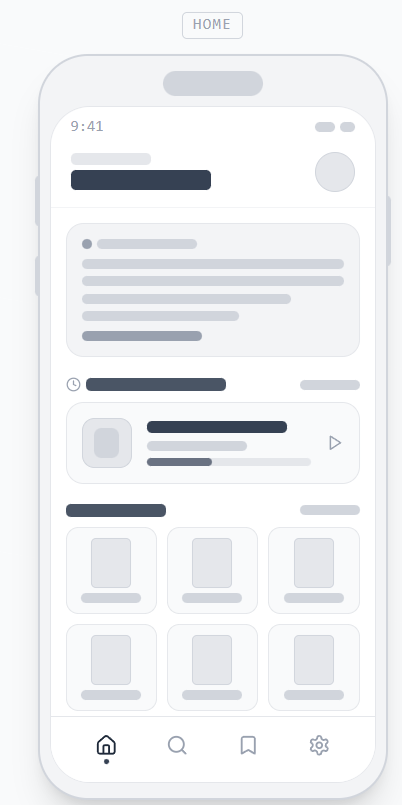
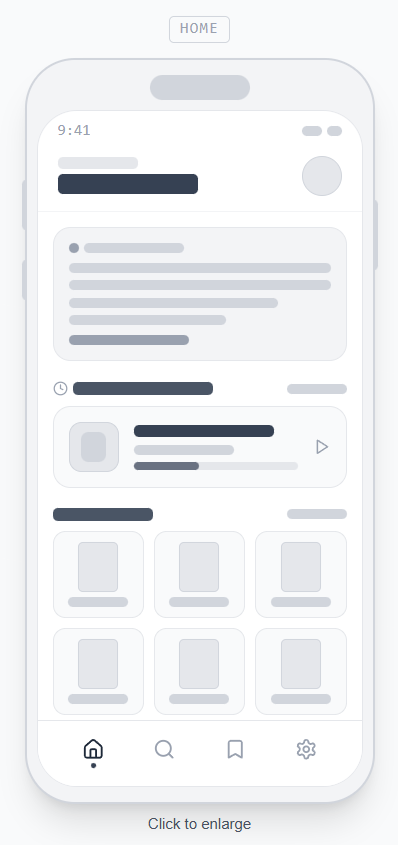
Added home wireframe and screen specification

diff --git a/SCR-001_Home_Screen.md b/SCR-001_Home_Screen.md
@@ -1,0 +1,61 @@
+# SCR-001 — Home Screen
+
+---
+
+## Screen Info
+
+| Field | Details |
+|---|---|
+| **Screen ID** | SCR-001 |
+| **Screen Name** | Home Screen |
+| **Route** | `/home` |
+| **Accessed From** | Bottom Navigation — Home Tab (all screens) |
+| **Description** | Main landing screen. Shows daily verse, continue reading widget, and quick-access book grid. |
+
+---
+
+## Screen Annotations
+
+1. **Status Bar** — Displays time (9:41) and signal/battery indicators. Placeholder only, not interactive.
+2. **Greeting Header** — Displays a time-based greeting text on the left and the app logo on the top-right corner. Decorative only.
+3. **Daily Verse Card** — Large prominent card showing an auto-loaded verse of the day. Includes verse text and reference label.
+4. **Continue Reading Widget** — Displays the last read book title and chapter with a play/resume button to continue reading from last position.
+5. **Quick Access Book Grid** — A 2-row grid of recently visited or popular Bible books displayed as thumbnail cards.
+6. **Bottom Navigation Bar** — Persistent 5-tab navigation bar fixed at the bottom. Tabs: Home (active), Search, Books, Bookmarks, Settings.
+
+---
+
+## Component Legend
+
+| ID | Type | Label | Function |
+|---|---|---|---|
+| HDR-01 | Header | Greeting Text | Displays time-based greeting to the user (e.g. Good Morning) |
+| LGO-01 | Logo | App Logo | Circular app logo on the top-right of the Home Screen. Decorative only, not interactive. |
+| CRD-01 | Card | Daily Verse Card | Displays the auto-loaded verse of the day with verse reference |
+| TXT-01 | Text | Verse Text | Main verse content text inside the daily verse card |
+| TXT-02 | Text | Verse Reference | Shows book name, chapter, and verse number (e.g. John 3:16) |
+| WGT-01 | Widget | Continue Reading | Shows last read book and chapter with a resume action button |
+| BTN-01 | Button | Resume / Play Button | Tapping resumes reading from the last saved position |
+| GRD-01 | List | Quick Access Book Grid | 2-row grid layout showing popular or recently visited books |
+| ICN-01 | Icon | Book Thumbnail | Square image or placeholder icon for each book in the grid |
+| NAV-01 | Nav Item | Home | Bottom nav — navigates to SCR-001 (currently active) |
+| NAV-02 | Nav Item | Search | Bottom nav — navigates to SCR-002 Search Screen |
+| NAV-03 | Nav Item | Books | Bottom nav — navigates to SCR-003 Books Screen |
+| NAV-04 | Nav Item | Bookmarks | Bottom nav — navigates to SCR-005 Bookmarks Screen |
+| NAV-05 | Nav Item | Settings | Bottom nav — navigates to SCR-006 Settings Screen |
+
+---
+
+## Navigation From This Screen
+
+| Destination | Trigger |
+|---|---|
+| SCR-002 Search | Tap Search icon in bottom navigation bar |
+| SCR-003 Books | Tap Books icon in bottom navigation bar or Quick Access Grid card |
+| SCR-004 Reader | Tap Continue Reading widget or book card in grid |
+| SCR-005 Bookmarks | Tap Bookmarks icon in bottom navigation bar |
+| SCR-006 Settings | Tap Settings icon in bottom navigation bar |
+
+---
+
+*Mobile Bible App — Screen Specifications v1.0 — May 2026*